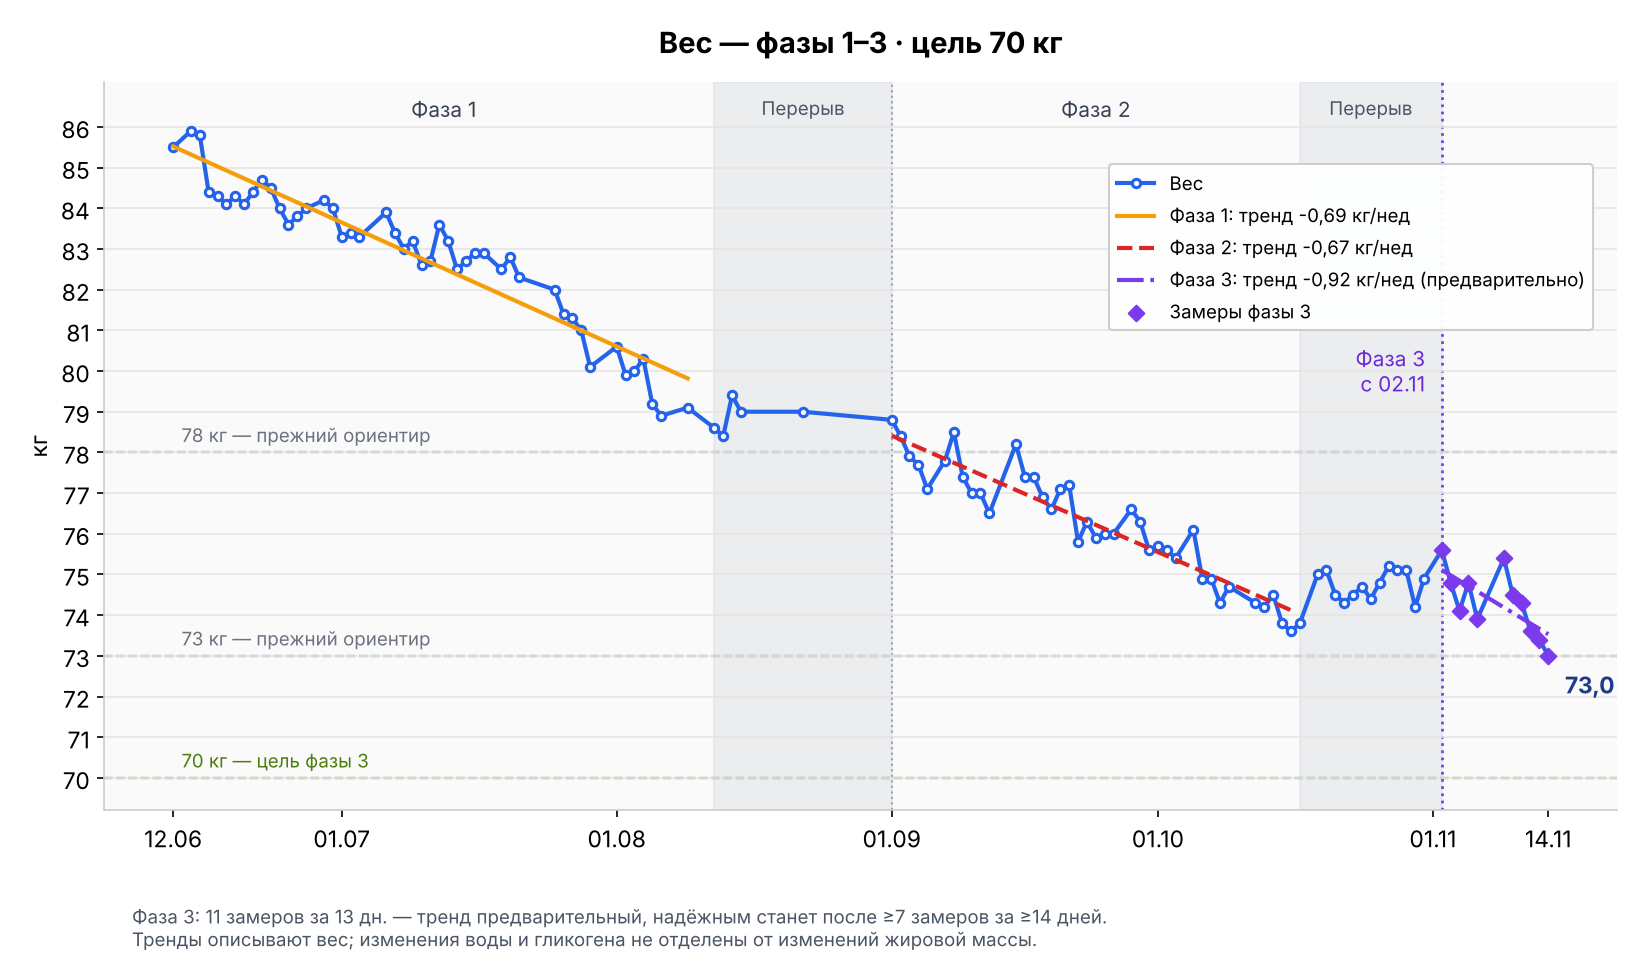
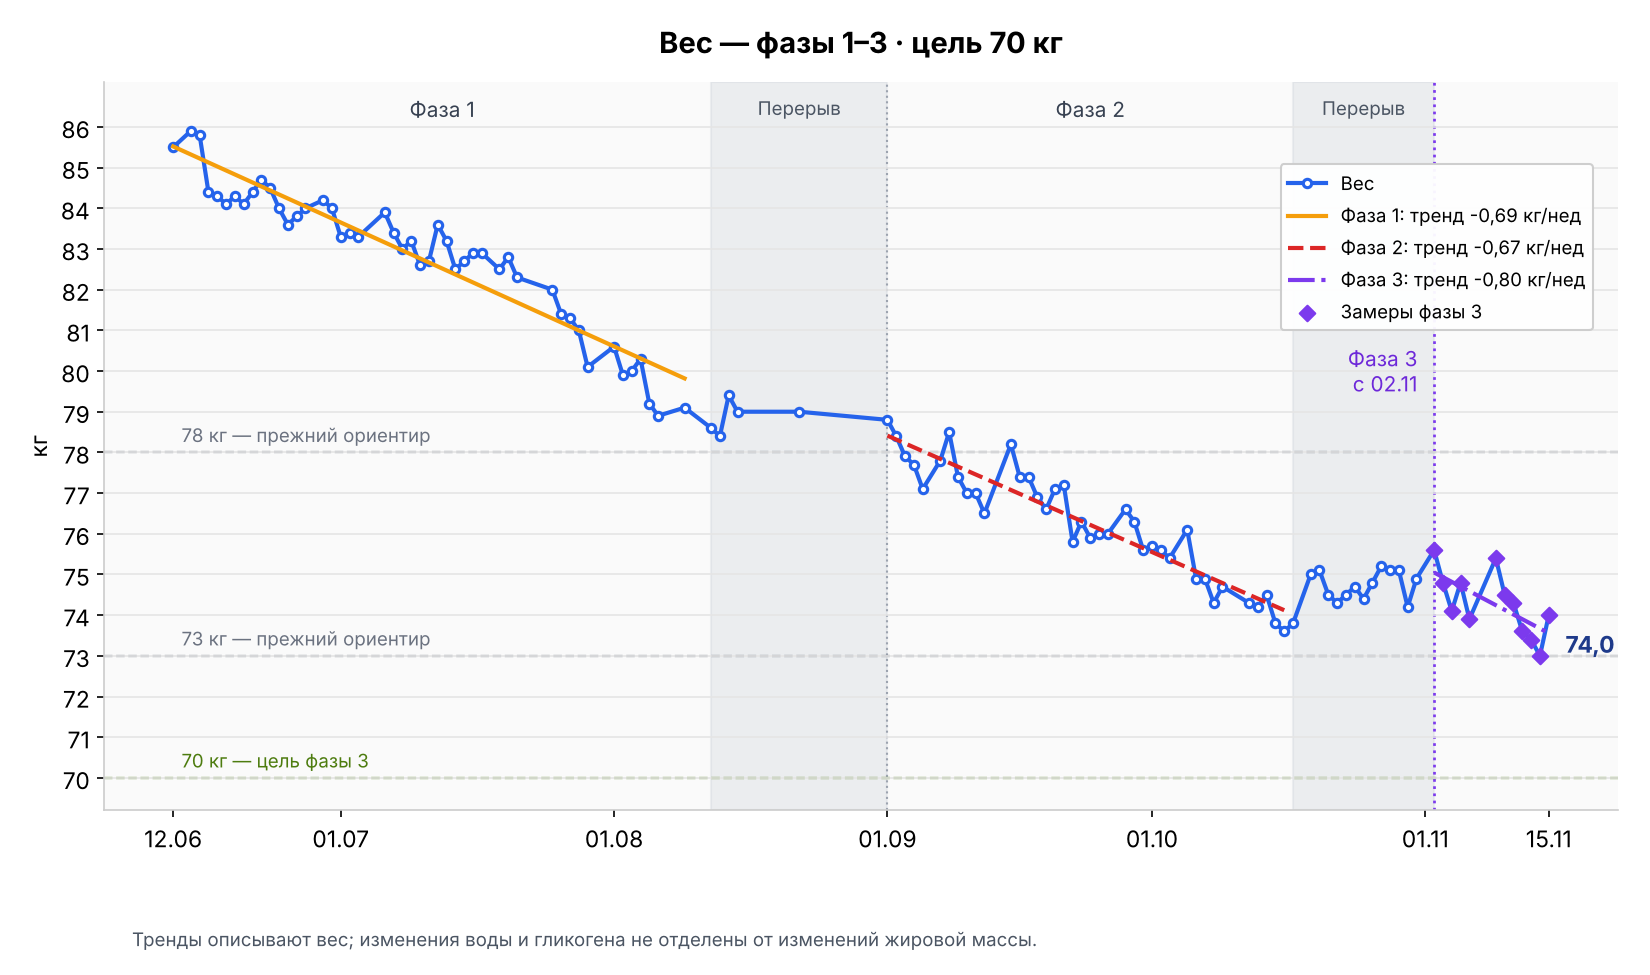
Вес 15.11: 74,0 кг; закрыт день 14.11
+1,0 кг после субботы с квашеной капустой и чипсами — соль, гликоген,
объём еды. День 14.11 отмечен завершённым (~2635 ккал). Графики перестроены.

Claude-Session: https://claude.ai/code/session_01BcPogZpufV1jxrQv9Sbikk

diff --git a/health/журнал-еды.md b/health/журнал-еды.md
@@ -11,7 +11,7 @@
 
 | Дата | Кратко | Ккал | Белок |
 |---|---|---|---|
-| 14.11 (сб) | фаза 3, день 13 · суббота, потолок 2500 ккал · утром 73,0 (минимум плана) · 🏋 зал, грудь + бицепс: жим 82,5×3, брусья 45, слабость · [ВиТ] кофе с сиропом «Попкорн-Карамель» 324 мл / завтрак мандарины 205 г + курица с чесноком 176 г + грудка с лимонным перцем 169 г + яблоки 422 г + голубика 167 г + молоко 1,5% 107 г + варёные яйца 252 г + хрен 18 г / молоко 1,5% 134 г / ужин мандарины 188 г + яблоки 237 г + курица с прованскими травами 189 г / голубика 222 г + яблоки 225 г / молоко 1,5% 249 г / поздний ужин куриные чипсы 39 г + квашеная капуста 256 г + тёртый лимон с имбирём 194 г / ещё квашеная капуста 212 г (день идёт) | ~2635＋ | ~193＋ г |
+| 14.11 (сб) | фаза 3, день 13 · суббота, потолок 2500 ккал · утром 73,0 (минимум плана) · 🏋 зал, грудь + бицепс: жим 82,5×3, брусья 45, слабость · [ВиТ] кофе с сиропом «Попкорн-Карамель» 324 мл / завтрак мандарины 205 г + курица с чесноком 176 г + грудка с лимонным перцем 169 г + яблоки 422 г + голубика 167 г + молоко 1,5% 107 г + варёные яйца 252 г + хрен 18 г / молоко 1,5% 134 г / ужин мандарины 188 г + яблоки 237 г + курица с прованскими травами 189 г / голубика 222 г + яблоки 225 г / молоко 1,5% 249 г / поздний ужин куриные чипсы 39 г + квашеная капуста 256 г + тёртый лимон с имбирём 194 г / ещё квашеная капуста 212 г · день завершён, +135 к субботнему потолку | ~2635 | ~193 г |
 | 13.11 (пт) | фаза 3, день 12 · цель 1900 ккал · утром 73,4 (минимум фазы 3) · завтрак варёные яйца 160 г + варёная грудка 256 г + грейпфрут и дыня 374 г + хрен 20 г / сливки 10% 20 г + ещё 20 г / флэт уайт 250 мл на безлактозном молоке 1,5% / [Делимарше] напиток из черноплодной рябины + куриный бургер по-азиатски + макароны + салат с пастрами + киви / «Ягодный Таро Латте» 275 г / ужин мандарины 200 г + яблоки 244 г + клубника 196 г / молоко 1,5% 102 г · день завершён, +162 ккал к цели (12–13.11 вместе −16) | ~2062＋ | ~161＋ г |
 | 12.11 (чт) | фаза 3, день 11 · цель 1900 ккал · утром 73,6 (минимум фазы 3) · 🏋 зал, ноги: выпады в Смите 45×10 на ногу, разгибания ног 70×8, жим гантелей сидя 17,5×10 · завтрак яблоки 325 г + продукт 188 г (по КБЖУ — куриное филе) + варёные яйца 200 г + хрен «Махеевъ» 22 г / обед овощи на пару 230 г + филе куриной грудки 182 г + чипсы из индейки 100 г / ужин мандарины 193 г + молоко 1,5% 103 г + голубика 129 г + яблоки 269 г / молоко 1,5% 127 г + ещё 200 г · день завершён, ~178 ккал до цели | ~1722 | ~179 г |
 | 11.11 (ср) | фаза 3, день 10 · цель 1900 ккал · утром 74,3 · завтрак исландский скир черника и малина 150 г + филе куриной грудки 182 г / [АВ] капучино 300 мл / [HSE] гречка 150 г + печень по-строгановски 125 г + щи зелёные 250 г + «Цезарь» 100 г + компот 200 г / [ВиТ] капучино 300 мл / флэт уайт 220 мл на молоке 3,2% / ужин куриная грудка с лимонным перцем 177 г + курица с запечённым чесноком 167 г / ужин 2 мандарины 210 г + яблоки 312 г · день завершён, +549 ккал к цели | ~2449 | ~198 г |
@@ -160,7 +160,7 @@
 
 ## 14 ноября (сб) — фаза 3, день 13 · утром 73,0
 
-День в процессе. **Субботний потолок — 2500 ккал.** Белок — ориентир **150 г (140–160)**; отдельных субботних целей по жирам и углеводам нет. Тренировка в зале: грудь + бицепс, пользователь отмечает лёгкую слабость — детали в [журнале тренировок](тренировки.md).
+День завершён. **Субботний потолок — 2500 ккал.** Белок — ориентир **150 г (140–160)**; отдельных субботних целей по жирам и углеводам нет. Тренировка в зале: грудь + бицепс, пользователь отмечает лёгкую слабость — детали в [журнале тренировок](тренировки.md).
 
 | Приём | Что | Ккал | Б | Ж | У |
 |---|---|---|---|---|---|
@@ -188,7 +188,7 @@
 | | тёртый лимон с имбирём 194 г (146,5/100г, Б 1 / Ж 0,5 / У 34,5 — данные пользователя; в сообщении «с имберем и лимоном», вероятно, с сахаром или мёдом) | ~284 | 1,9 | 1,0 | 66,9 |
 | | *поздний ужин итого* | *~433* | *~21,1* | *~4,0* | *~78,2* |
 | | ещё квашеная капуста 212 г (22,9/100г, Б 1,1 / Ж 0,1 / У 4,4 — данные пользователя) | ~49 | 2,3 | 0,2 | 9,3 |
-| **Пока за день** | | **~2635** | **~193,4** | **~60,3** | **~327,4** |
+| **Итого** | | **~2635** | **~193,4** | **~60,3** | **~327,4** |
 
 Заметка: напиток из приложения «Вкусно — и точка» по скриншоту: эспрессо, молоко 3,2%, сироп «Попкорн-Карамель», объём 324 мл; в порции 199 ккал / Б 6 / Ж 6 / У 30 г. До субботнего потолка 2500 ккал осталось 2301 ккал; до белка 140–160 г — 134–154 г. Завтрак по прежним значениям журнала: мандарины 205 г (38/0,8/0,2/7,5) — 77,900 ккал / Б 1,640 / Ж 0,410 / У 15,375 г; курица с запечённым чесноком 176 г (107,2/21,2/2/1,1, от 08.11) — 188,672 / 37,312 / 3,520 / 1,936; куриная грудка с лимонным перцем 169 г (100/19,5/1,5/3, от 11.11) — 169,000 / 32,955 / 2,535 / 5,070; яблоки 422 г (47/0,4/0,4/9,8) — 198,340 / 1,688 / 1,688 / 41,356; голубика 167 г (57/0,7/0,3/14,5) — 95,190 / 1,169 / 0,501 / 24,215; молоко 1,5% 107 г (44,3/3/1,5/4,7) — 47,401 / 3,210 / 1,605 / 5,029; яйца варёные 252 г, 4 шт. (155/12,6/10,6/1,1) — 390,600 / 31,752 / 26,712 / 2,772; хрен «Махеевъ» 18 г (109/0,9/5/15) — 19,620 / 0,162 / 0,900 / 2,700. Завтрак всего 1186,723 ккал / Б 109,888 / Ж 37,871 / У 98,453 г. За день 1385,723 ккал / Б 115,888 / Ж 43,871 / У 128,453 г. До субботнего потолка 2500 ккал осталось 1114,277 ккал; до белка 140–160 г — 24,112–44,112 г. Добавлено молоко 1,5% 134 г по прежним данным 44,3/3/1,5/4,7 — 59,362 ккал / Б 4,020 / Ж 2,010 / У 6,298 г. За день 1445,085 ккал / Б 119,908 / Ж 45,881 / У 134,751 г. До субботнего потолка 2500 ккал осталось 1054,915 ккал; до белка 140–160 г — 20,092–40,092 г; справочно до ориентиров обычного дня Ж 60 — 14,119 г, У 190 — 55,249 г. Ужин: очищенные мандарины 188 г (38/0,8/0,2/7,5) — 71,440 ккал / Б 1,504 / Ж 0,376 / У 14,100 г; яблоки 237 г (47/0,4/0,4/9,8) — 111,390 / 0,948 / 0,948 / 23,226; курица с прованскими травами 189 г по прежним данным 96,7/19,9/1,9/1 — 182,763 / 37,611 / 3,591 / 1,890. Ужин всего 365,593 ккал / Б 40,063 / Ж 4,915 / У 39,216 г. За день 1810,678 ккал / Б 159,971 / Ж 50,796 / У 173,967 г. До субботнего потолка 2500 ккал осталось 689,322 ккал; белок в диапазоне 140–160 г; справочно до Ж 60 — 9,204 г, до У 190 — 16,033 г. Добавлены голубика 222 г (57/0,7/0,3/14,5) — 126,540 ккал / Б 1,554 / Ж 0,666 / У 32,190 г и очищенные яблоки 225 г (47/0,4/0,4/9,8) — 105,750 / 0,900 / 0,900 / 22,050; вместе 232,290 ккал / Б 2,454 / Ж 1,566 / У 54,240 г. За день 2042,968 ккал / Б 162,425 / Ж 52,362 / У 228,207 г. До субботнего потолка 2500 ккал осталось 457,032 ккал; белок выше диапазона 140–160 г на 2,425 г; справочно до Ж 60 — 7,638 г, У выше ориентира обычного дня 190 г на 38,207 г. Добавлено молоко 1,5% 249 г по прежним данным 44,3/3/1,5/4,7 — 110,307 ккал / Б 7,470 / Ж 3,735 / У 11,703 г. За день 2153,275 ккал / Б 169,895 / Ж 56,097 / У 239,910 г. До субботнего потолка 2500 ккал осталось 346,725 ккал; белок выше диапазона 140–160 г на 9,895 г; справочно до Ж 60 — 3,903 г, У выше ориентира обычного дня на 49,910 г. Неделя 09–14.11 относительно плана (5 × 1900 + 2500 = 12 000): ~12 128 ккал, +128. Поздний ужин по КБЖУ пользователя: куриные чипсы 39 г (231/42/7, углеводы не указаны — приняты 0) — 90,090 ккал / Б 16,380 / Ж 2,730 / У 0; квашеная капуста 256 г (22,9/1,1/0,1/4,4) — 58,624 / 2,816 / 0,256 / 11,264; тёртый лимон с имбирём 194 г (146,5/1/0,5/34,5; название записано по смыслу — в сообщении «тёртый лимон с имбирём и лимоном»; судя по калорийности, с сахаром или мёдом) — 284,210 / 1,940 / 0,970 / 66,930. Поздний ужин всего 432,924 ккал / Б 21,136 / Ж 3,956 / У 78,194 г. За день 2586,199 ккал / Б 191,031 / Ж 60,053 / У 318,104 г. Субботний потолок 2500 ккал превышен на 86,199 ккал; белок выше диапазона на 31,031 г; справочно Ж на уровне ориентира обычного дня (+0,053), У выше на 128,104 г. Неделя 09–14.11: ~12 214 ккал при плане 12 000, +214. Добавлена ещё квашеная капуста 212 г (22,9/1,1/0,1/4,4) — 48,548 ккал / Б 2,332 / Ж 0,212 / У 9,328 г. За день 2634,747 ккал / Б 193,363 / Ж 60,265 / У 327,432 г. Субботний потолок 2500 ккал превышен на 134,747 ккал. Неделя 09–14.11: ~12 263 ккал, +263 к плану.
 

diff --git a/health/журнал-веса.md b/health/журнал-веса.md
@@ -152,6 +152,7 @@
 | 12 ноября | 73,6 кг | чт; **фаза 3, день 11**. −0,7 кг к предыдущему замеру 11.11, несмотря на ~2449 ккал накануне; новый минимум фазы 3 (прежний — 73,9 06.11); −2,0 кг от старта фазы 3 (75,6 кг, 02.11); −11,9 кг от стартовой оценки 85,5 кг |
 | 13 ноября | 73,4 кг | пт; **фаза 3, день 12**. −0,2 кг к предыдущему замеру 12.11; новый минимум фазы 3; −2,2 кг от старта фазы 3 (75,6 кг, 02.11); −12,1 кг от стартовой оценки 85,5 кг |
 | 14 ноября | 73,0 кг | сб; **фаза 3, день 13**. −0,4 кг к предыдущему замеру 13.11; новый минимум фазы 3 и всего плана (прежний — 73,4 13.11; до фазы 3 — 73,6 16.10); −2,6 кг от старта фазы 3 (75,6 кг, 02.11); −12,5 кг от стартовой оценки 85,5 кг |
+| 15 ноября | 74,0 кг | вс; **фаза 3, день 14**. +1,0 кг к предыдущему замеру 14.11 после субботы ~2635 ккал: ~468 г квашеной капусты (оценочно 7–9 г соли), куриные чипсы, ~330 г углеводов (гликоген с водой), большой объём еды в ЖКТ, тренировка груди накануне. Жиром быть не может: день ниже поддержания ~2700 ккал. Прошлый такой скачок (09.11, +1,5 после субботы) ушёл за 1–2 дня; −1,6 кг от старта фазы 3; −11,5 кг от стартовой оценки 85,5 кг |
 | 7 ноября | — | сб; **фаза 3, день 6**. Пользователь забыл взвеситься; замер пропущен |
 
 ### График
